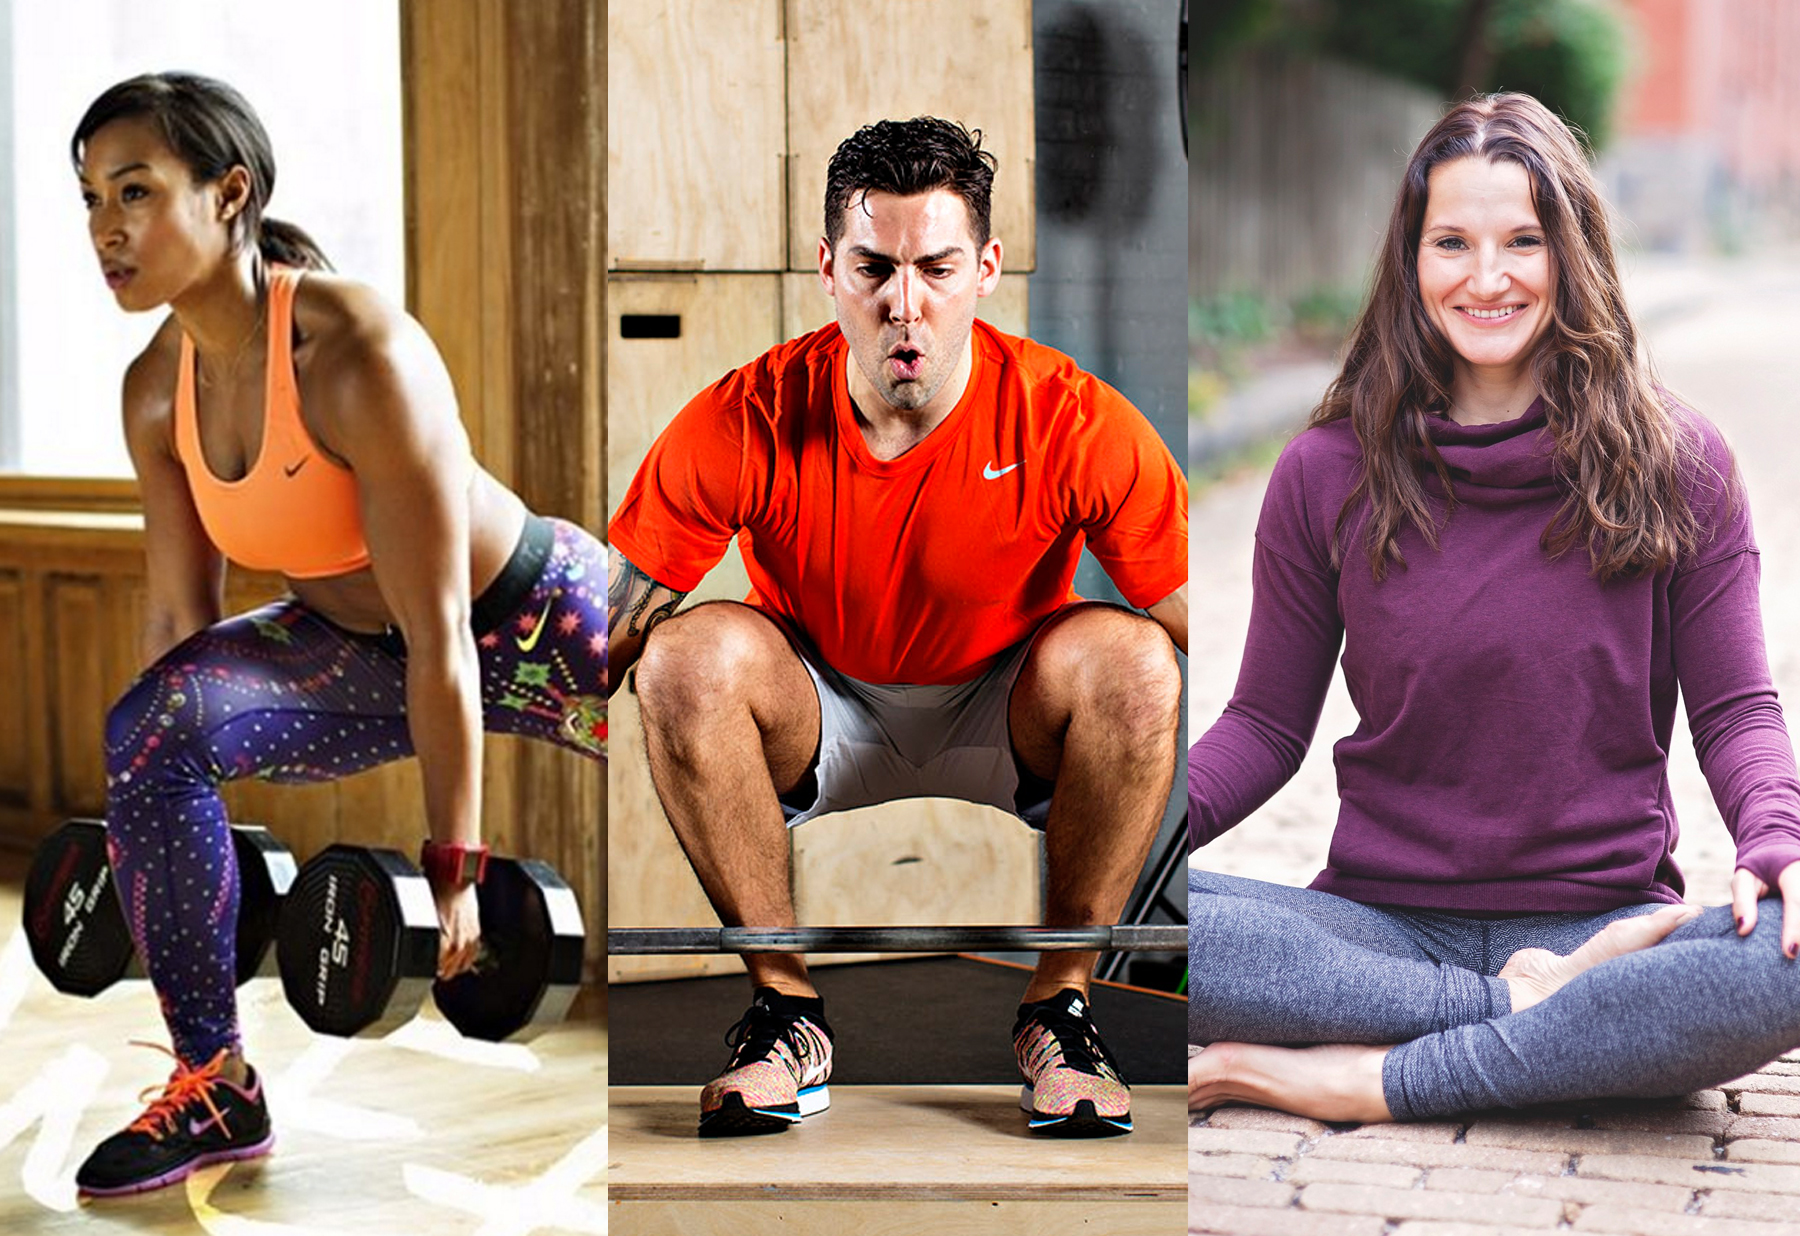
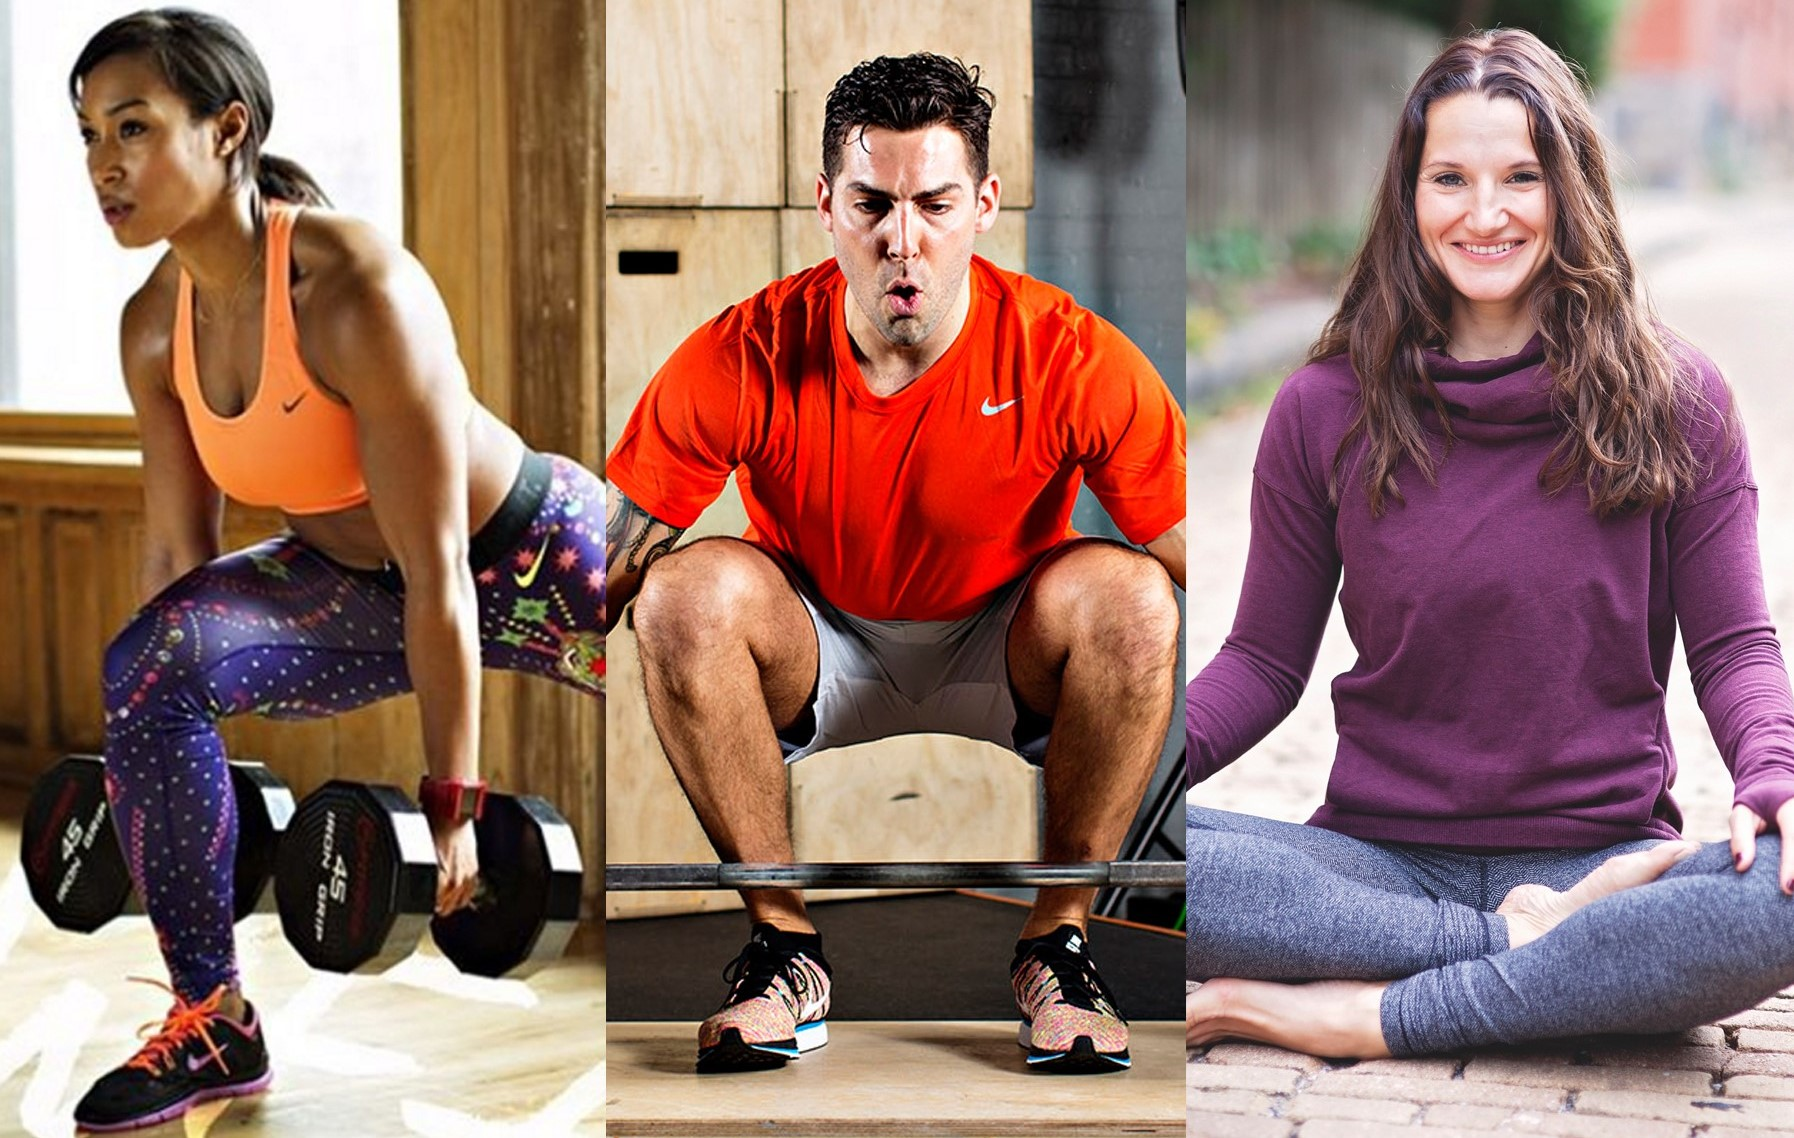
reformatted background pic and changed some styling

diff --git a/public/style.css b/public/style.css
@@ -38,13 +38,13 @@ main {
   justify-content: space-around;
   align-items: center;
   height: 50%;
-  padding-top: 40%;
+  padding-top: 20%;
 }
 
 #content {
   border-left: 1px solid black;
   width: 100%;
-  /* background-image: url("/images/Fitness-Pros-Features.jpg"); */
+  background-image: url("/images/Fitness-Pros-Features.jpg");
   background-size: 100%;
 }
 
